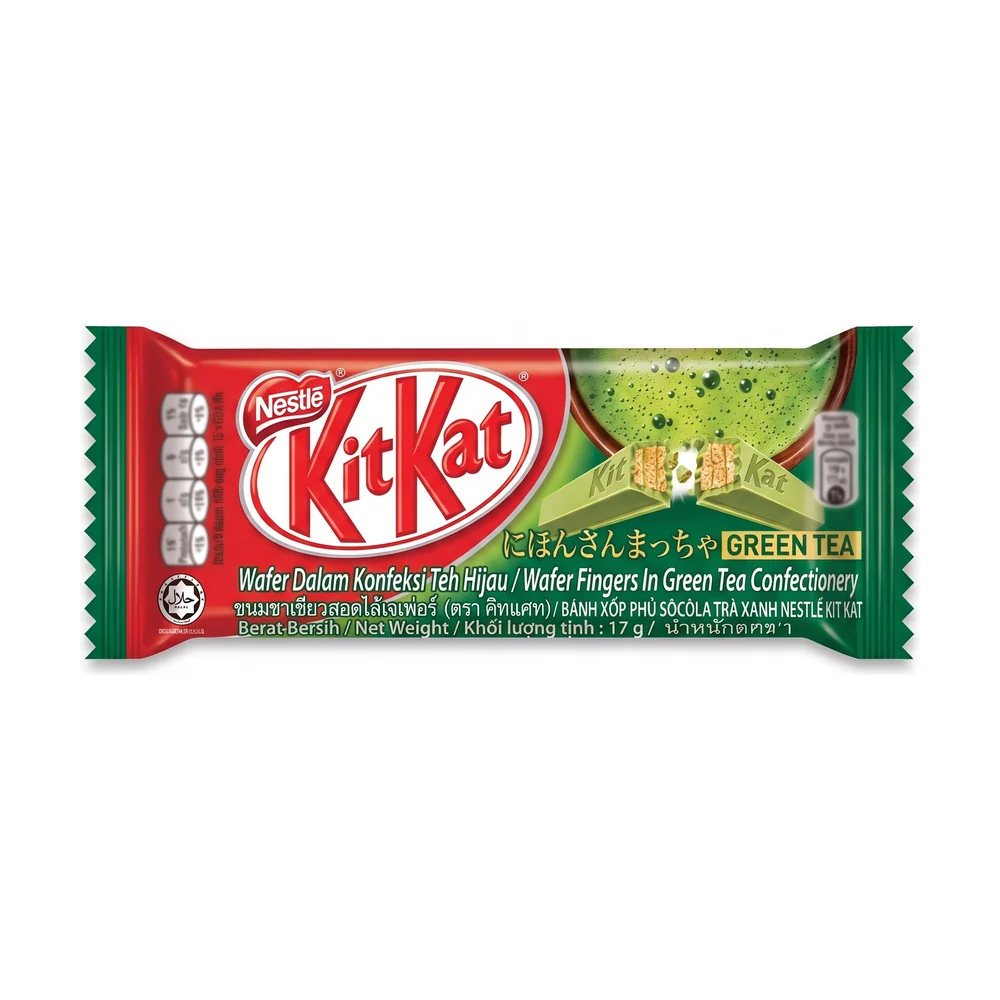
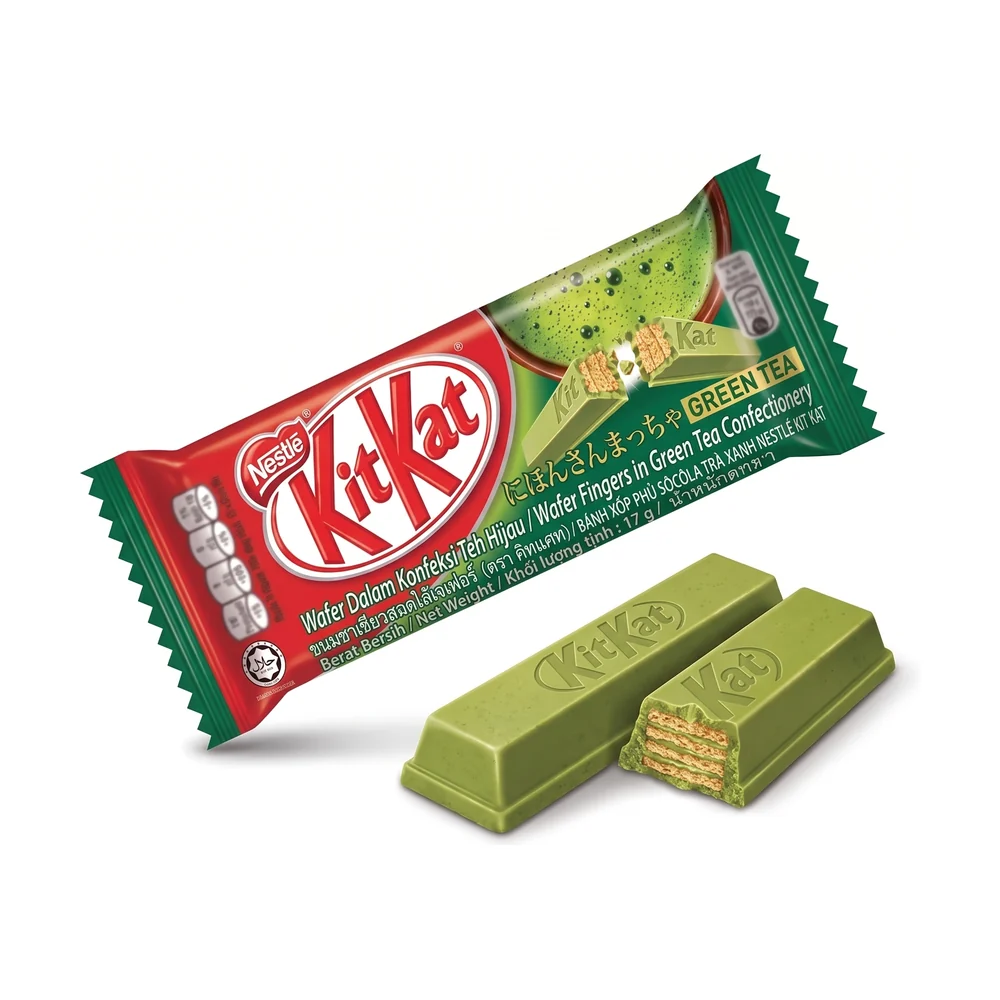
review(2549263-socola-thanh): 5 products — 0 keep, 5 fixed, 0 need photo, 0 asked
KitKat bars redrawn as one set: large diagonal wrapper with the unwrapped bar.

Claude-Session: https://claude.ai/code/session_01DMTF5GjS3P9om8RxKa1WuX

diff --git a/STATUS.md b/STATUS.md
@@ -2,7 +2,7 @@
 
 > Sinh tự động bởi `node tools/status.mjs`. **Không sửa tay.** Nguồn sự thật là `meta.json` của từng SP.
 
-Tổng 2502 SP · đã xem 2502 (100%) · xong 2306 · chờ chủ duyệt 18 · cần chụp 177 · hỏi chủ 1
+Tổng 2502 SP · đã xem 2502 (100%) · xong 2301 · chờ chủ duyệt 23 · cần chụp 177 · hỏi chủ 1
 
 Thứ tự làm: từ trên xuống (doanh số 90 ngày giảm dần). `xong` = giữ nguyên + đã lên web.
 
@@ -11,7 +11,7 @@ Thứ tự làm: từ trên xuống (doanh số 90 ngày giảm dần). `xong` =
 | 1 | Snack khoai tây | 0.0tr | 75 | 0 | 0 | 0 | 1 | 0 | 0 | 0 | 74 |
 | 2 | Snack bắp & phồng | 0.0tr | 66 | 0 | 0 | 0 | 3 | 1 | 2 | 0 | 60 |
 | 3 | Kem que | 0.0tr | 61 | 0 | 0 | 0 | 1 | 0 | 0 | 0 | 60 |
-| 4 | Socola thanh | 0.0tr | 53 | 0 | 7 | 0 | 0 | 0 | 0 | 0 | 46 |
+| 4 | Socola thanh | 0.0tr | 53 | 0 | 7 | 0 | 0 | 0 | 5 | 0 | 41 |
 | 5 | Snack đậu phộng / hạt‑đậu | 0.0tr | 47 | 0 | 0 | 0 | 1 | 0 | 0 | 0 | 46 |
 | 6 | Viên ngậm thảo mộc / bạc hà | 0.0tr | 44 | 0 | 0 | 0 | 2 | 0 | 0 | 0 | 42 |
 | 7 | Kẹo dẻo / jelly | 0.0tr | 44 | 0 | 0 | 0 | 12 | 0 | 0 | 0 | 32 |
